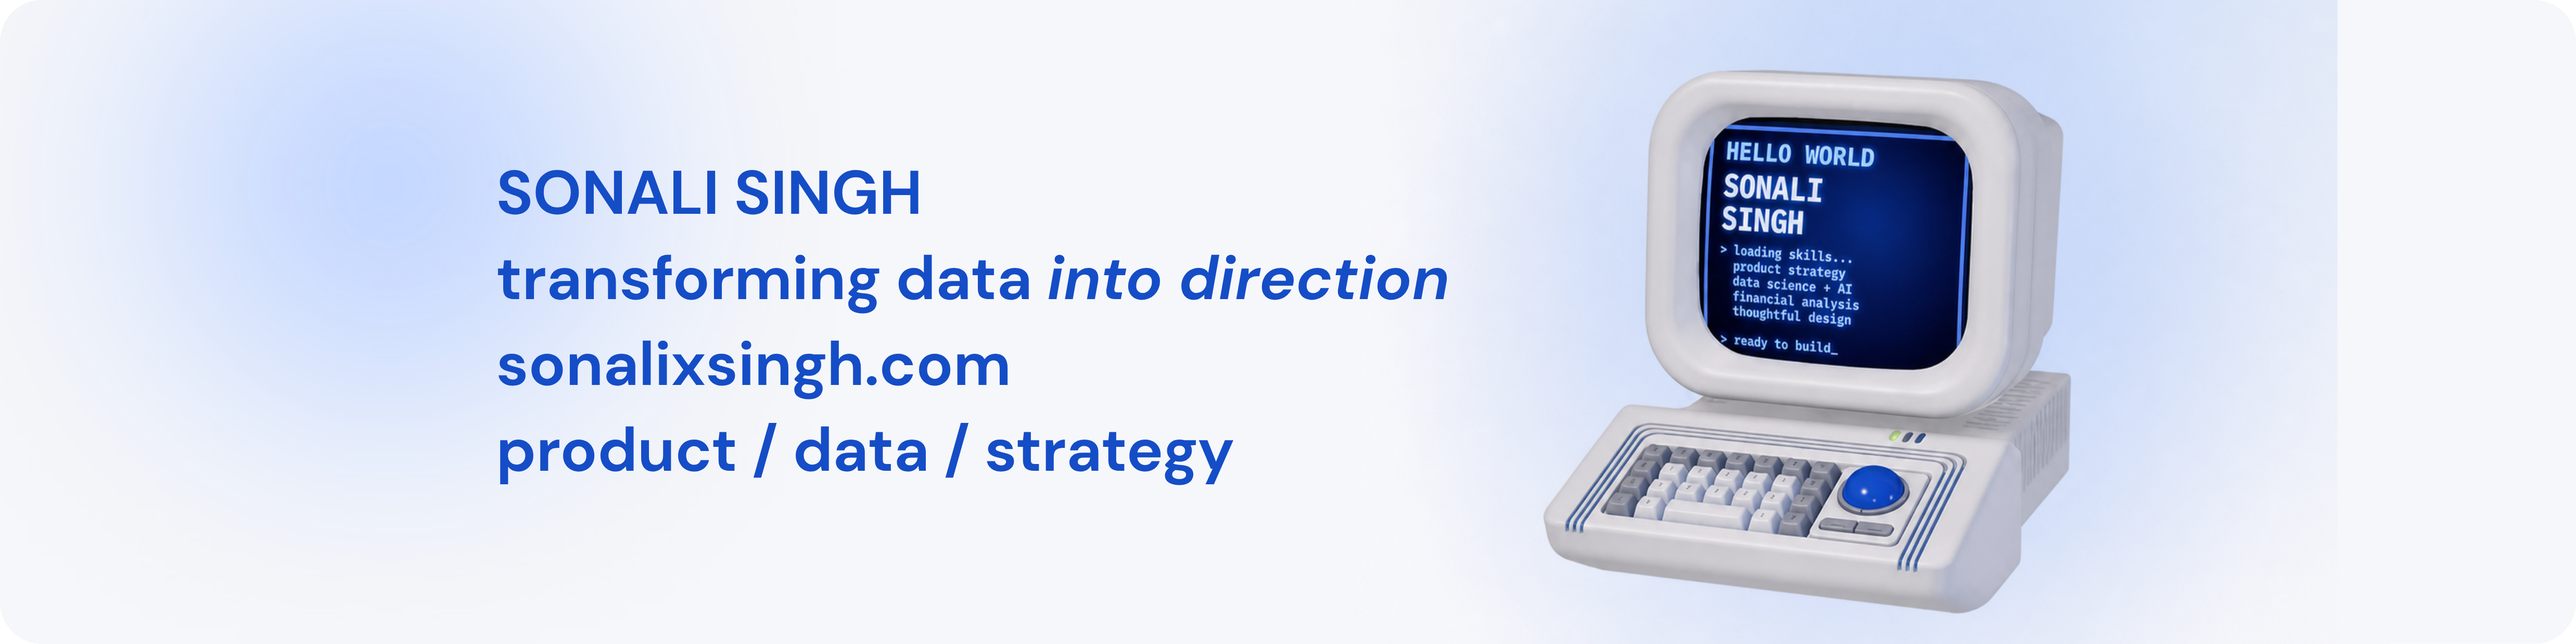
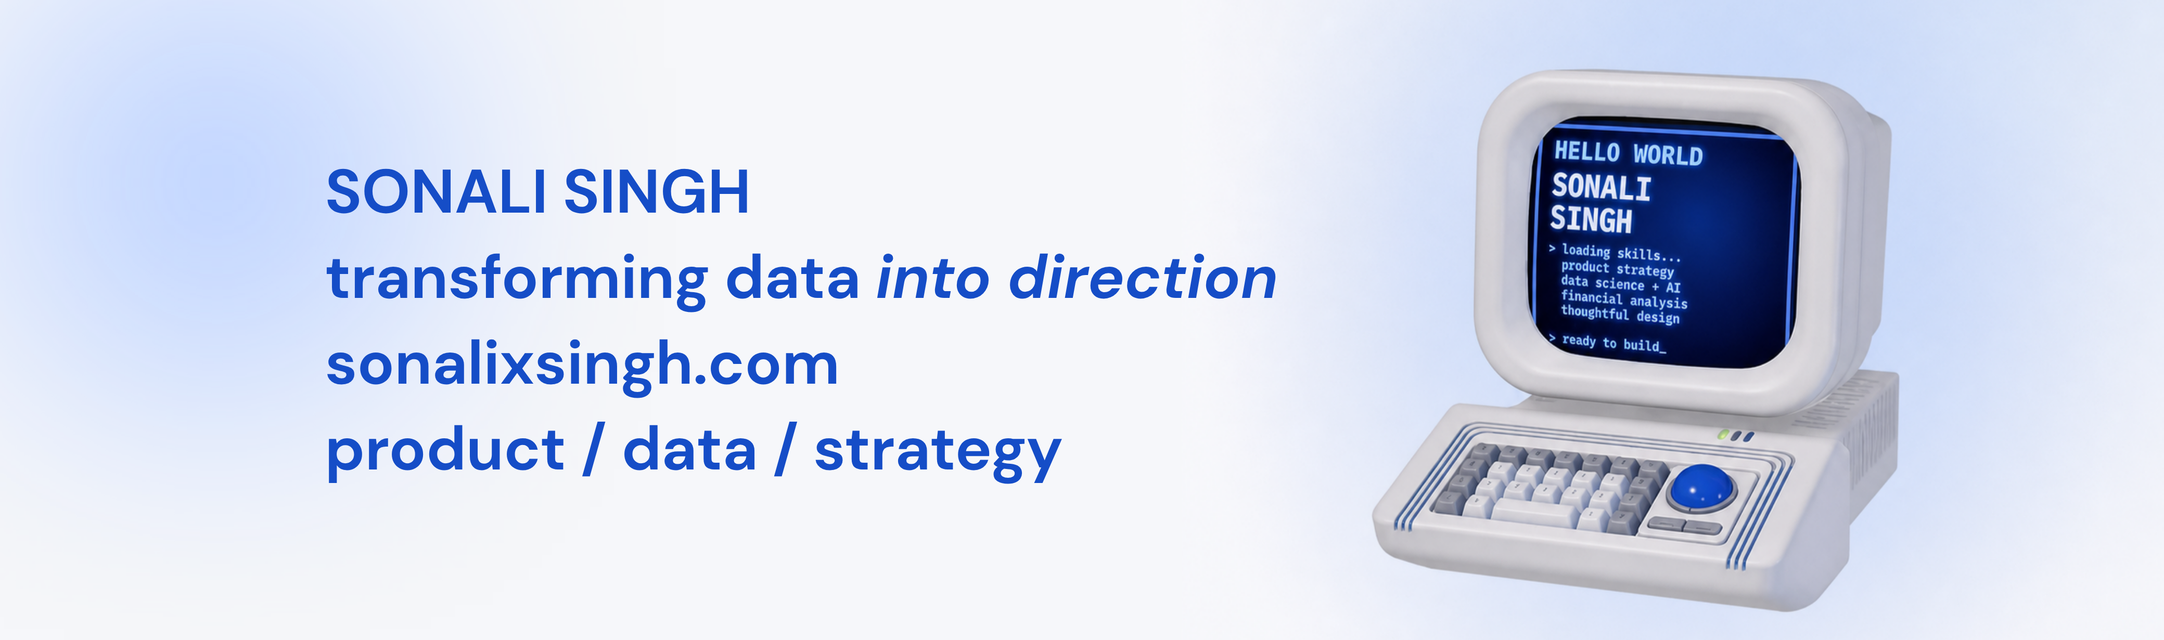
Refresh profile with blue gradients (#5)

diff --git a/README.md b/README.md
@@ -1,5 +1,5 @@
 <p align="center">
-  <img src="./assets/profile-top-banner.png?v=2" width="100%" alt="Sonali Singh — transforming data into direction" />
+  <img src="./assets/profile-top-banner.png?v=3" width="100%" alt="Sonali Singh — transforming data into direction" />
 </p>
 
 <p align="center">
@@ -12,6 +12,8 @@
   <img src="https://readme-typing-svg.demolab.com?font=IBM+Plex+Mono&weight=500&size=19&duration=2800&pause=850&color=2867F7&center=true&vCenter=true&width=720&lines=Building+AI+products+from+messy+questions;Turning+research+into+decisions+people+can+use;Connecting+data%2C+strategy%2C+and+product+design" alt="Animated introduction" />
 </p>
 
+<img src="./assets/blue-gradient-divider.svg" width="100%" alt="" />
+
 ## What I build
 
 I am a data scientist and product strategist studying Data Science and Business Economics at UC San Diego. I work across **applied AI, analytics, markets, finance, and product design** where I take ambiguous questions from evidence to a useful, documented experience.
@@ -19,6 +21,8 @@ I am a data scientist and product strategist studying Data Science and Business 
 | Product & strategy | Data & AI | Finance & markets |
 |---|---|---|
 | Problem framing, user research, MVP scoping, PRDs, and competitive analysis | Statistical analysis, predictive modeling, LLM workflows, RAG, and data visualization | Filings, operating metrics, market structure, financial modeling, and strategic research |
+
+<img src="./assets/blue-gradient-divider.svg" width="100%" alt="" />
 
 ## Core toolkit
 
@@ -84,6 +88,8 @@ I am a data scientist and product strategist studying Data Science and Business 
 ![Agile](https://img.shields.io/badge/Agile-009FDA?style=for-the-badge)
 ![Scrum](https://img.shields.io/badge/Scrum-6DB33F?style=for-the-badge)
 
+<img src="./assets/blue-gradient-divider.svg" width="100%" alt="" />
+
 ## More about how I work
 
 I grew up in the Bay Area asking why systems work the way they do, who they serve, and how they could be better. That curiosity led me through math, computer science, business, and data science.
@@ -94,7 +100,3 @@ I grew up in the Bay Area asking why systems work the way they do, who they serv
 - **Business:** operating metrics, revenue and cash-flow analysis, budget variance, and business-model comparison.
 
 <p align="center"><strong>Open to product, data, and strategy roles.</strong><br/>San Francisco · San Diego</p>
-
-<p align="center">
-  <img src="./assets/profile-bottom-banner.png?v=2" width="100%" alt="Soft blue gradient footer banner" />
-</p>
